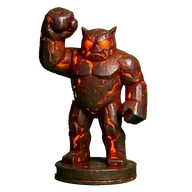
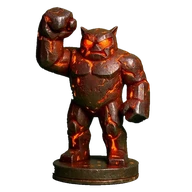
v1.90.32: Seuchenkönig und Eisenfaust nachgezogen; die Bretter der Startseite zeigen die neuen Monster
- Seuchenkönig 94,8 → 97 %: 3 % gestreckt. Er war die einzige Figur knapp
  unter der 95-%-Grenze des Besitzers („mindestens 95 Prozent“).
- Eisenfaust: 6 % gestaucht. Sie war seit v1.90.29 so schlank, dass die
  Höhenklammer ihr Band auf 95 % der Nachbarn drückte; jetzt volle Breite bei
  unveränderten 100 % Höhe. Teller von Hand 44 (vorher 42, Breitenverlauf im
  Messskript).
- Startseite: brett-kronland und brett-wolkenjoch neu aus dem Spiel
  fotografiert – sie zeigten noch die Monster von vor v1.90.31. Ursache: das
  Fotoskript hängt nicht in der Kette, und nach dem Einbau der 17 Bilder hatte
  ich es nicht laufen lassen. Steht jetzt als Schritt in CLAUDE.md.

Vom Besitzer am 5.10. vorab freigegeben („alle Figuren sind jetzt super …
du hast somit auch die Freigabe“); beide Bilder sind dieselben wie bisher, nur
in der Höhe nachgerechnet.

Proben: 31 Suiten / 2696 Prüfungen (vorher 2695) – die Grenze steht jetzt auf
genau 95 %, und kein Band außer dem der Brutmutter fällt unter 97 % der
Nachbarn (der Zerreißer steht bei 98 %).

Claude-Session: https://claude.ai/code/session_018Tfvp769kvKv88eRG4ctPp

Changed region(s): [[0.1875, 0.0312, 0.7812, 0.9688]]

diff --git a/test_ui.jsx b/test_ui.jsx
@@ -247,9 +247,9 @@ const piece = (x = {}) => ({ id: 1, kind: "Q", color: "w", level: 1, abilities: 
        Vorher standen sie bei 67-73 % der Offiziere. Die Akzente von Koloss
        und Kanonier folgen der Figur (Kartenhintergrund). */
     const gm5 = ["boss-b14", "boss-b08", "boss-b16", "boss-b24", "boss-b18"];
-    ok(`v1.90.29: Koloss, Kanonier, Blutmagd, Seuchenkoenig und Eisenfaust stehen bei 85-100 % der Offiziere (${gm5.map((id) => id.slice(5) + " " + monsterAmBrett(id).toFixed(1)).join(", ")}), Teller von Hand bei Kanonier (seit v1.90.31: 49) und Eisenfaust 42, Akzente Violett und Stahl`,
+    ok(`v1.90.29: Koloss, Kanonier, Blutmagd, Seuchenkoenig und Eisenfaust stehen bei 85-100 % der Offiziere (${gm5.map((id) => id.slice(5) + " " + monsterAmBrett(id).toFixed(1)).join(", ")}), Teller von Hand bei Kanonier (seit v1.90.31: 49) und Eisenfaust (seit v1.90.32: 44), Akzente Violett und Stahl`,
       gm5.every((id) => monsterAmBrett(id) >= 85 && monsterAmBrett(id) <= 100.5 && SB5[id].boden === 555 && SB5[id].oben === 21)
-      && SB5["boss-b08"].teller === 49 && SB5["boss-b18"].teller === 42
+      && SB5["boss-b08"].teller === 49 && SB5["boss-b18"].teller === 44
       && BOSSES.find((b) => b.id === "b14").accent === "#a855f7" && BOSSES.find((b) => b.id === "b08").accent === "#a3adb8");
     /* v1.90.30 (Besitzer 5.10.): der Doppelritter 10 % hoeher ("muss noch
        etwas hoeher sein"), Schattenfuerst mit Knochenhoernern und Schleicher
@@ -266,11 +266,17 @@ const piece = (x = {}) => ({ id: 1, kind: "Q", color: "w", level: 1, abilities: 
        Seuchenkoenig steht seit v1.90.29 bei 94,8 und war nicht Teil dieser
        Runde. Und kein Band ist geschrumpft: keine Figur ueber 100,5 %. */
     const alleMonster = Object.keys(SB5).filter((id) => /^boss-b\d\d$/.test(id));
-    const zuKlein = alleMonster.filter((id) => monsterAmBrett(id) < 94.5), neu31 = ["b02", "b04", "b05", "b06", "b07", "b08", "b09", "b10", "b11", "b12", "b15", "b16", "b17", "b19", "b20", "b21", "b23"].map((b) => "boss-" + b), zuGross = neu31.filter((id) => (SB5[id].boden - SB5[id].oben) * Math.max(0.55, Math.min(1.35, 136 / SB5[id].rx)) > 561 * 1.03);
-    ok(`v1.90.31: alle ${alleMonster.length} Bestien und Grossmeister stehen bei mindestens 94,5 % der Offiziere (darunter: ${zuKlein.map((id) => id.slice(5) + " " + monsterAmBrett(id).toFixed(1)).join(", ") || "keine"})`,
+    const zuKlein = alleMonster.filter((id) => monsterAmBrett(id) < 95), neu31 = ["b02", "b04", "b05", "b06", "b07", "b08", "b09", "b10", "b11", "b12", "b15", "b16", "b17", "b19", "b20", "b21", "b23"].map((b) => "boss-" + b), zuGross = neu31.filter((id) => (SB5[id].boden - SB5[id].oben) * Math.max(0.55, Math.min(1.35, 136 / SB5[id].rx)) > 561 * 1.03);
+    ok(`v1.90.31: alle ${alleMonster.length} Bestien und Grossmeister stehen bei mindestens 95 % der Offiziere (seit v1.90.32 auch der Seuchenkoenig) (darunter: ${zuKlein.map((id) => id.slice(5) + " " + monsterAmBrett(id).toFixed(1)).join(", ") || "keine"})`,
       alleMonster.length === 25 && zuKlein.length === 0);
     ok(`v1.90.31: keine der 17 neuen Fassungen ist so schlank, dass die Hoehenklammer ihr Band schmaler macht (zu hoch: ${zuGross.join(", ") || "keine"}), die Blutmagd traegt Rot`,
       zuGross.length === 0 && BOSSES.find((b) => b.id === "b16").accent === "#dc2626" && SB5["boss-b08"].tellerVonHand === true);
+    /* v1.90.32: die Eisenfaust (v1.90.29) war die letzte, deren Band die
+       Hoehenklammer schmaler machte (95 % der Nachbarn) - 6 % gestaucht. Jetzt
+       gilt die Regel fuer ALLE 25, ausser der Brutmutter (105 %, so vom
+       Besitzer gesehen und freigegeben). */
+    const bandSchmal = alleMonster.filter((id) => id !== "boss-b03" && (SB5[id].boden - SB5[id].oben) * Math.max(0.55, Math.min(1.35, 136 / SB5[id].rx)) > 561 * 1.03);
+    ok(`v1.90.32: kein Monster ausser der Brutmutter ist so schlank, dass sein Band unter 97 % der Nachbarn faellt (${bandSchmal.join(", ") || "keins"})`, bandSchmal.length === 0);
     const vier = ["boss-b15", "boss-b22", "boss-b05", "boss-b13"];
     ok(`v1.90.27: Sturmklaue, Zerreisser, Streuner und Brandstifter stehen bei 75-100 % der Offiziere (${vier.map((id) => id.slice(5) + " " + monsterAmBrett(id).toFixed(1)).join(", ")})`,
       vier.every((id) => monsterAmBrett(id) >= 75 && monsterAmBrett(id) <= 100.5 && SB5[id].boden === 555 && SB5[id].oben === 21));

diff --git a/scripts/messe_tellerkante.py b/scripts/messe_tellerkante.py
@@ -81,7 +81,7 @@ ORDNER = "src/app/ui/assets/painted"
 #             Handwert ist gestrichen. Am Kanonier haelt er weiter die Stufe am
 #             Ring fuer den Knick (13): die Wand steht von y 520 bis 472 auf
 #             243-258 px und faellt bei 468 auf 227. Gesetzt auf 49.
-HANDWERTE = {"boss-b22": 48, "gambit-t2": 45, "boss-b25": 24, "boss-b08": 49, "boss-b18": 42}
+HANDWERTE = {"boss-b22": 48, "gambit-t2": 45, "boss-b25": 24, "boss-b08": 49, "boss-b18": 44}   # b18 seit v1.90.32 gestaucht: Wand von y 530 bis 486 auf 252-260 px, bei 482 noch 248, bei 478 nur 233
 MASSE = json.load(open("src/app/ui/board/sockelband.json"))
 
 def kante(fid, m):

diff --git a/CLAUDE.md b/CLAUDE.md
@@ -41,8 +41,8 @@ gambitrise.com zeigt darauf).
   pruefe-navigation, pruefe-textfluss, test_layout) lesen den Chromium-Pfad aus
   `PW_CHROMIUM`; ohne die Variable gilt der Pfad des Cloud-Containers. Lokal:
   `npx playwright install chromium` und `PW_CHROMIUM=<Pfad zur chrome-Datei>`.
-- `npm test` — volle Batterie. MUSS **31 Suiten / 2695 Prüfungen** melden
-  (Stand v1.90.31; der Runner stoppt nach der ersten roten Suite, also
+- `npm test` — volle Batterie. MUSS **31 Suiten / 2696 Prüfungen** melden
+  (Stand v1.90.32; der Runner stoppt nach der ersten roten Suite, also
   Suitenzahl prüfen, nicht nur Assertions! **Zählweise seit v1.90.18
   (Audit A74): JEDE Suite der Kette meldet eine RESULT-Zeile** — alle Zeilen
   `RESULT…: N passed` summieren; test_balance meldet zwei, darum stehen im
@@ -468,7 +468,7 @@ Quelltext lesen hat wiederholt getäuscht; gemessen wird am lebenden DOM
   Auswahl-Lichtspektakel.
 - Alles Optionale abschaltbar (Klang, Online).
 
-## Offene Baustellen (Stand v1.90.31, 5.10.2026)
+## Offene Baustellen (Stand v1.90.32, 5.10.2026)
 
 **Einstieg für jede neue Sitzung: `design/CHAT-EINSTIEG-2026-09-27.md`** (zehn
 Minuten, mit dem Startsatz für den Chat), dann **`design/UEBERGABE-2026-09-27.md`** — Stand,
@@ -502,7 +502,10 @@ Hier nur der Überblick:
   (Knochenklaue). **v1.90.31 (5.10.): KEIN MONSTER MEHR UNTER 95 %** — 17 Bilder
   in ihren ALTEN FARBEN, nur aufrechter (Kontext: „the ONLY change is the
   proportion“, schmalerer Sockel) oder ≤ 10 % gestreckt; test_ui prüft die
-  Grenze für alle 25. **Der Besitzer hat am 5.10. jede Umfärbung und jeden
+  Grenze für alle 25 (seit v1.90.32 genau 95 %, und dass kein Band außer dem
+  der Brutmutter über die Höhenklammer schrumpft). **Nach jeder Monster-Runde
+  `node tools/landing-fotos.mjs bretter`** — am 5.10. zeigten zwei Bretter der
+  Startseite noch die alten Monster. **Der Besitzer hat am 5.10. jede Umfärbung und jeden
   Akzent verworfen** („keine Figur ist gut geworden … Farbübergänge nicht
   sauber … als hätte das ein Kleinkind angemalt … saubere Konturen sind
   Pflicht“): gerechnete Teilfarben (Rüstung, Kranz), Leuchtringe, Linien am

diff --git a/CHANGELOG.md b/CHANGELOG.md
@@ -1,5 +1,21 @@
 # Changelog - Gambit Rise
 
+## 1.90.32 - Seuchenkoenig und Eisenfaust nachgezogen; die Bretter der Startseite zeigen die neuen Monster
+
+- **Seuchenkoenig** 94,8 -> 97 %: 3 % gestreckt. Er war die einzige Figur
+  knapp unter der 95-%-Grenze des Besitzers.
+- **Eisenfaust**: 6 % gestaucht. Sie war seit v1.90.29 so schlank, dass die
+  Hoehenklammer ihr Band auf 95 % der Nachbarn drueckte; jetzt volle Breite
+  bei unveraenderten 100 % Hoehe. Teller von Hand 44 (vorher 42).
+- **Startseite:** `brett-kronland` und `brett-wolkenjoch` neu aus dem Spiel
+  fotografiert - sie zeigten noch die Monster von vor v1.90.31. Ursache: das
+  Fotoskript haengt nicht in der Kette, und nach dem Einbau der 17 Bilder
+  hatte ich es nicht laufen lassen.
+
+Proben: 31 Suiten / 2696 Pruefungen (vorher 2695) - die Grenze steht jetzt auf
+genau 95 %, und kein Band ausser dem der Brutmutter faellt unter 97 % der
+Nachbarn (der Zerreisser steht bei 98 %).
+
 ## 1.90.31 - Kein Monster mehr unter 95 %: 17 Figuren hoeher, alle in ihren alten Farben; die Blutmagd dunkel mit roten Rissen
 
 Besitzer 5.10.: "mach erstmal alle vom Urspruenglichen einfach gross" und

diff --git a/archiv/ausgemustert/v1.90.32/WARUM.md b/archiv/ausgemustert/v1.90.32/WARUM.md
@@ -1,0 +1,7 @@
+# Ausgemustert in v1.90.32
+
+## painted-boss-b24, b18 (+ klein/)
+
+Seuchenkönig (stand bei 94,8 % der Offiziere, jetzt 97 %) und Eisenfaust (war
+so schlank, dass ihr Band schmaler wurde; 6 % gestaucht). Dieselben Bilder,
+nur in der Höhe nachgerechnet.
